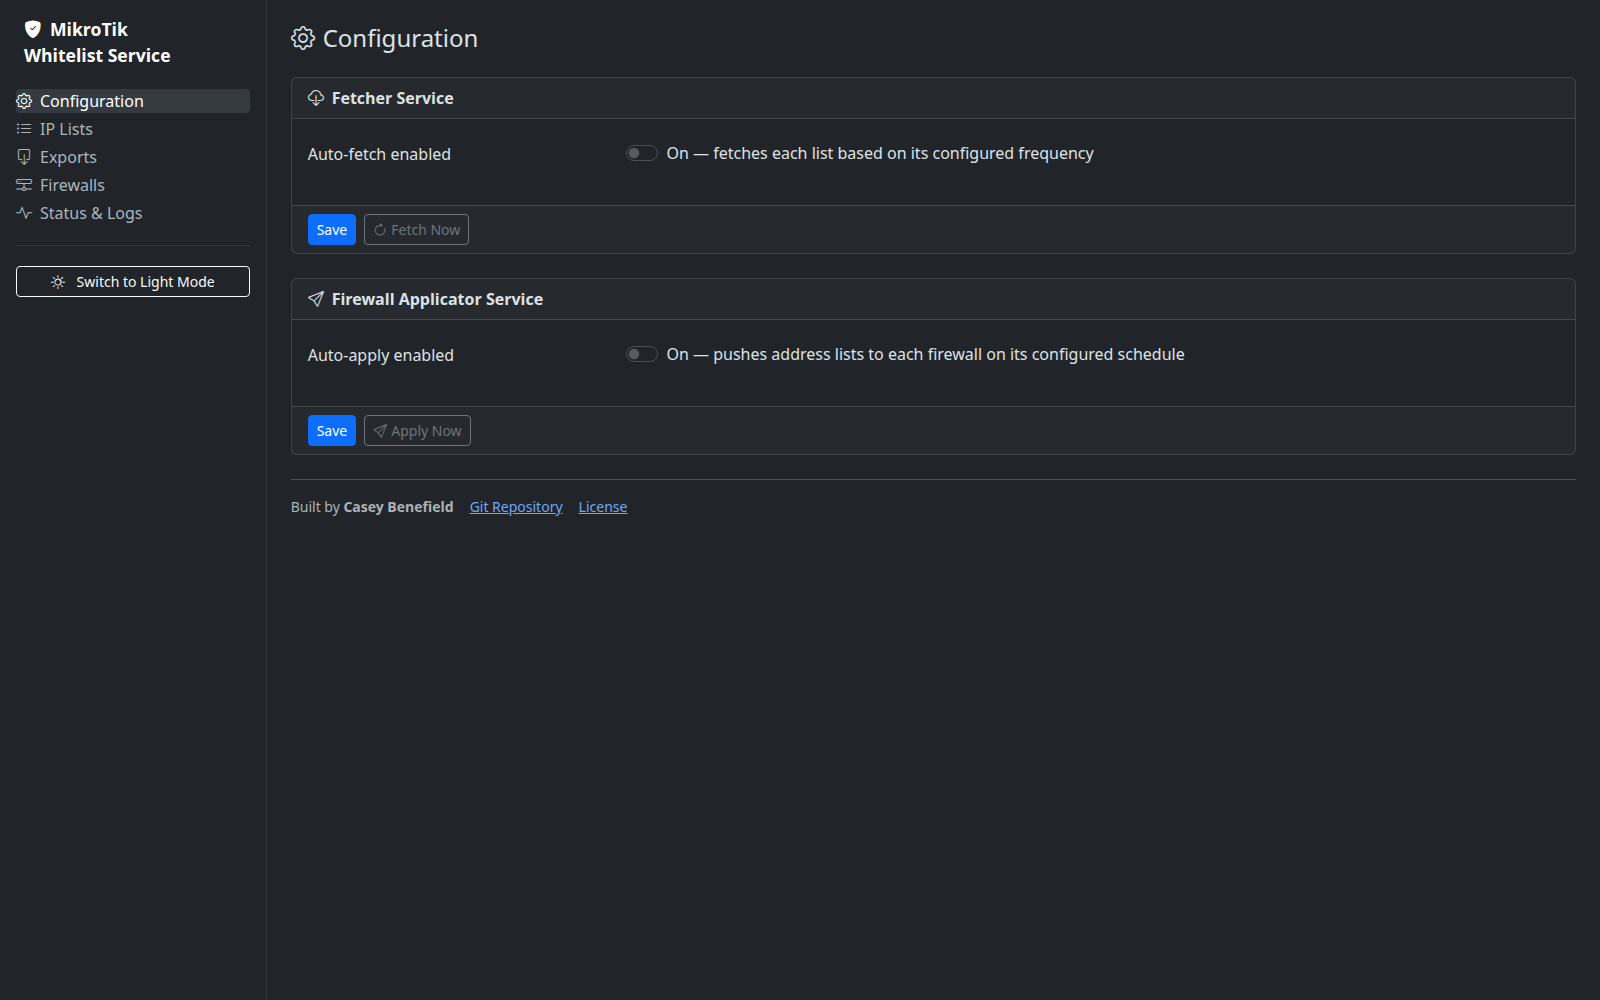
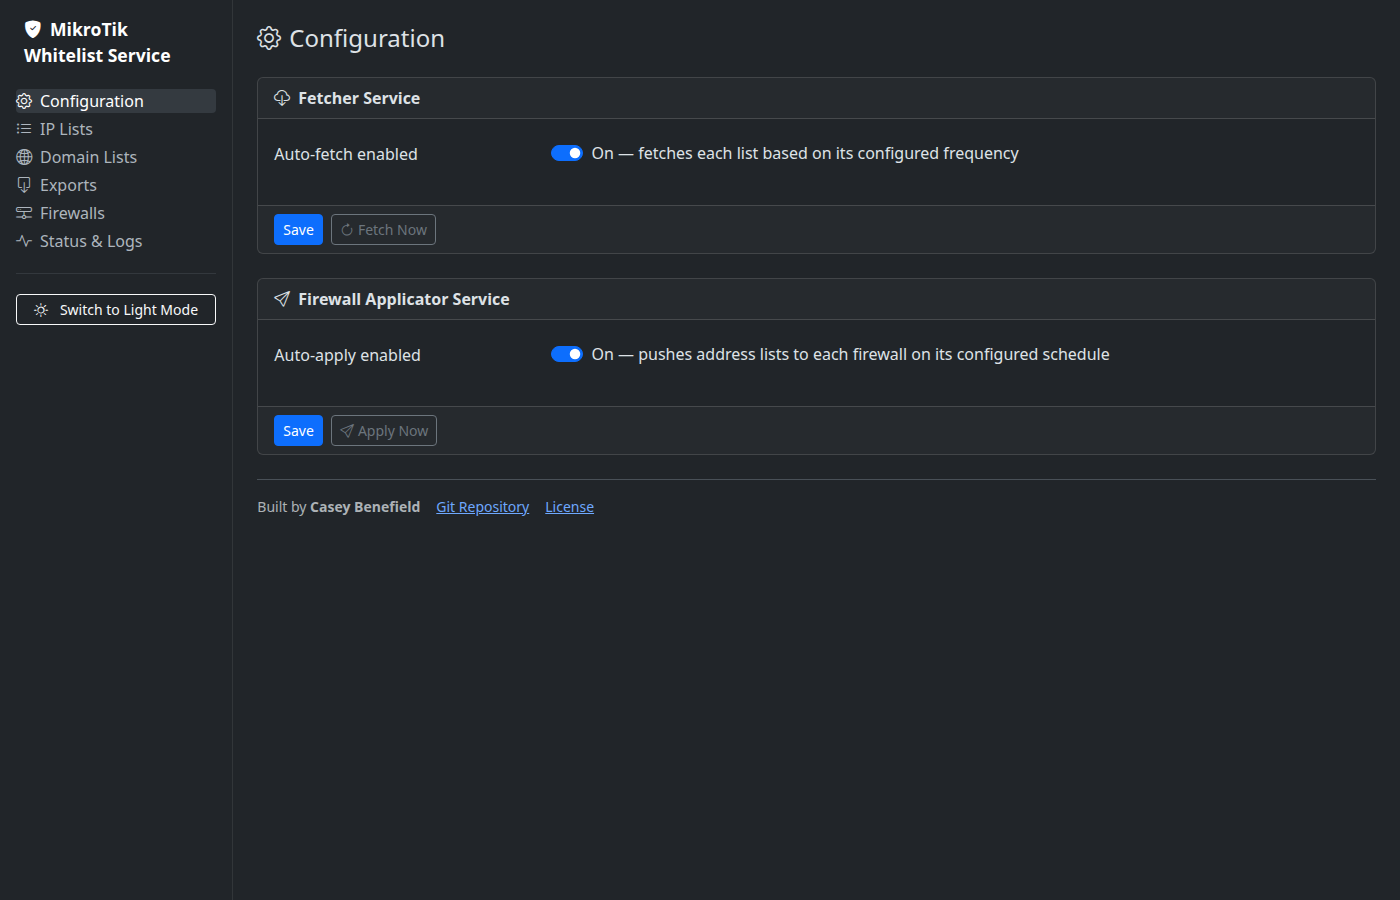
Doc update

diff --git a/screenshots.md b/screenshots.md
@@ -18,6 +18,14 @@ Manage downloadable and manual IPv4/CIDR sources, list types, fetch frequency, a
 
 ---
 
+## Domain Lists
+
+Configure URL-based feeds of domain names. Each domain is resolved to IPv4 A-records and merged into the combined exports/apply by list type.
+
+![Domain Lists](resources/screenshots/domainlists.png)
+
+---
+
 ## Exports
 
 Export combined or per-list results as plain-text or RouterOS scripts.
@@ -40,8 +48,3 @@ Review fetch and apply history, recent outcomes, and operational status.
 
 ![Status and Logs](resources/screenshots/status.png)
 
----
-
-## Current Gap
-
-There is not yet a dedicated screenshot for the Domain Lists page. Once you capture one, it should be added here and linked from [features.md](features.md).

diff --git a/features.md b/features.md
@@ -41,6 +41,8 @@ Typical use cases:
 
 Domain Lists accept plain exact-match domain feeds. Each fetched domain is resolved to IPv4 A records, and those resolved IPs are merged into the same combined datasets used for router applies and exports.
 
+![Domain Lists](resources/screenshots/domainlists.png)
+
 Typical use cases:
 
 - DNS-over-HTTPS and VPN bypass domains
